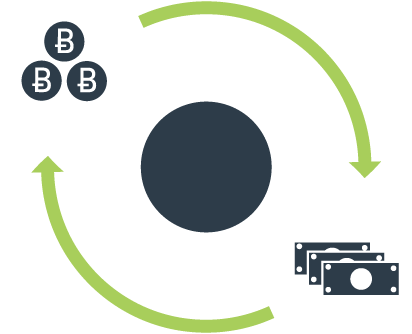
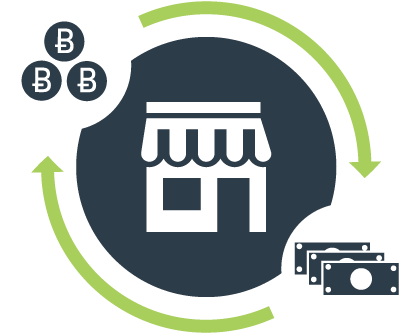
Updates the feature graphics in the what is section on the homepage.

diff --git a/templates/index.html b/templates/index.html
@@ -23,12 +23,13 @@
       <p class="sign-up-box">
         <a href="{% url 'register_merchant' %}" class="btn btn-primary btn-lg">{% trans "Sign Up For Free" %}</a>
       </p>
-      
+
     </div>
   </div>
 
 </div>
 
+{% include "_play_video_modal.html" %}
 
 {# What is CoinSafe section #}
 <div class="container-fluid bg-light-tan home-section what-is-coinsafe">
@@ -40,17 +41,18 @@
   <div class="container">
     <div class="row">
       <div class="col-md-6">
-        <p><img class="img-responsive" src="{% static "img/videoscrn.jpg" %}" alt="Generic placeholder image" style="margin:0 auto;cursor:pointer;" onclick="$('#play-video-modal').modal();"></p>
+        <p>
+          <a href="javascript:void(0);" onclick="$('#play-video-modal').modal();" title="{% trans "Play Video" %}">
+            <img class="img-responsive img-featurette" src="{% static "img/videoplaceholder.jpg" %}" alt="{% trans "Play Video" %}">
+          </a>
+        </p>
       </div>
       <div class="col-md-6">
           <h3 style="margin-top:70px;">{% trans "A Network Of Bitcoin Exchanges" %}</h3>
           <p>{% trans "CoinSafe makes it easy for merchants around the world to buy and sell bitcoin at their store locations. With our intuitive mobile software and exchange partnerships, we help local businesses attract new customers by offering their own Bitcoin ATM service." %}</p>
-<!--           <p><button type="button" class="btn btn-primary btn-md">Watch the Video</button></p>
- -->      </div>
+      </div>
     </div>
   </div>
-
-  {% include "_play_video_modal.html" %}
 
   <hr class="featurette-break">
 
@@ -58,12 +60,12 @@
     <div class="row">
       
       <div class="col-md-6">
-        <h2 style="margin-top:70px;">{% trans "The Easiest Way to Buy and Sell Bitcoin" %}</h2>
+        <h2 style="margin-top:130px;">{% trans "The Easiest Way to Buy and Sell Bitcoin" %}</h2>
           <p>{% trans "Buy and sell bitcoin for cash instantly in the comfort of your local neighborhood store - no more messaging with strangers, linking bank accounts, or long waiting periods." %}</p>
       </div>
 
-      <div class="col-md-6">
-        <p><img class="img-responsive" src="{% static "img/exchange.png" %}" alt="Generic placeholder image" style="margin:0 auto;"></p>
+      <div class="col-md-6 text-center">
+        <p><img class="img-responsive img-featurette" src="{% static "img/exchange.png" %}" alt="Convert cash into bitcoin and bitcoin into cash"></p>
       </div>
     </div>
   </div>
@@ -74,7 +76,7 @@
     <div class="row">
 
       <div class="col-md-6">
-        <p><img class="img-responsive" src="{% static "img/devices.png" %}" alt="Generic placeholder image" style="margin:0 auto;"></p>
+        <p><img class="img-responsive img-featurette" src="{% static "img/devices.png" %}" alt="CoinSafe works on any internet-connected device"></p>
       </div>
 
       <div class="col-md-6">

diff --git a/static/css/custom.css b/static/css/custom.css
@@ -203,17 +203,6 @@ hr {
     background:transparent url('../img/dotmap.png') center no-repeat;
 }
 
-/* Video play button */
-.video-play-btn {
-    cursor:pointer;
-    background:transparent url("../img/play-button.png") center no-repeat;
-    display:block;
-    width:216px;
-    height:125px;
-    padding-top:100px;
-    margin:0 auto;
-}
-
 /* Home page sections */
 .home-section {
     padding:36px 0 16px;
@@ -242,6 +231,9 @@ hr.featurette-break {
 }
 .what-is-coinsafe .feature-list li {
     margin:1em 0;
+}
+.img-featurette {
+    margin:20px auto;
 }
 
 /* Testimonial section */
